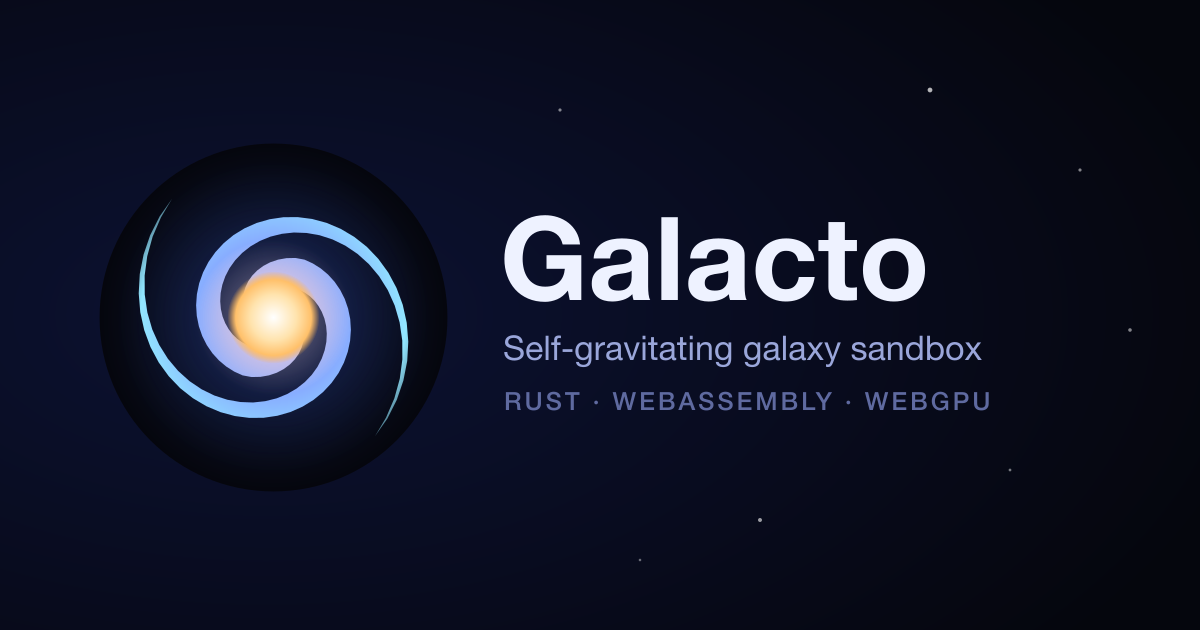
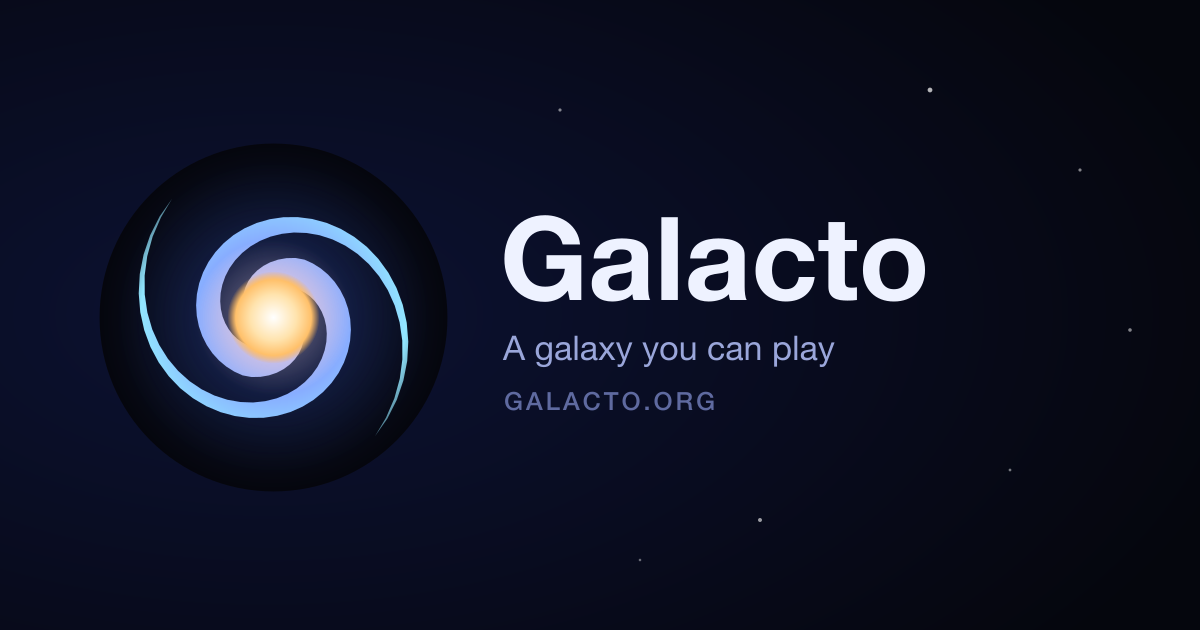
Describe Galacto by experience in its title, link previews and share card

Changed region(s): [[0.4008, 0.5429, 0.8325, 0.6635]]

diff --git a/static/index.html b/static/index.html
@@ -8,18 +8,18 @@
       name="viewport"
       content="width=device-width, initial-scale=1.0, viewport-fit=cover"
     />
-    <title>Galacto - N-body galaxy sandbox</title>
+    <title>Galacto - a galaxy you can play</title>
     <meta
       name="description"
-      content="A GPU-accelerated self-gravitating N-body galaxy sandbox: a spiral disk and galaxy collisions (merger, head-on, retrograde, minor merger, a galaxy group, a grand-design M51 flyby), with live controls for speed, disk stability (Toomre Q), gas, and the dark-matter halo, plus a generative soundscape driven by the simulation. Built with Rust, WebAssembly, and WebGPU."
+      content="A living galaxy in your browser that makes its own slow ambient music. Collide galaxies, shape spiral arms and dark-matter halos, and hear the sound change as they evolve."
     />
     <link rel="canonical" href="https://galacto.org/" />
 
     <!-- Open Graph / Twitter social card -->
-    <meta property="og:title" content="Galacto - N-body galaxy sandbox" />
+    <meta property="og:title" content="Galacto - a galaxy you can play" />
     <meta
       property="og:description"
-      content="A GPU-accelerated self-gravitating N-body galaxy sandbox - spiral disks and galaxy collisions in Rust, WebAssembly, and WebGPU, with a generative soundscape."
+      content="A living galaxy that makes its own slow ambient music. Collide galaxies, shape spiral arms and listen."
     />
     <meta property="og:type" content="website" />
     <meta property="og:url" content="https://galacto.org/" />
@@ -31,10 +31,10 @@
       content="The Galacto wordmark beside its galaxy mark on a deep-space background."
     />
     <meta name="twitter:card" content="summary_large_image" />
-    <meta name="twitter:title" content="Galacto - N-body galaxy sandbox" />
+    <meta name="twitter:title" content="Galacto - a galaxy you can play" />
     <meta
       name="twitter:description"
-      content="A self-gravitating N-body galaxy sandbox in Rust, WebAssembly, and WebGPU, with a generative soundscape."
+      content="A living galaxy that makes its own slow ambient music. Collide galaxies, shape spiral arms and listen."
     />
     <meta name="twitter:image" content="https://galacto.org/og-card.png" />
 
